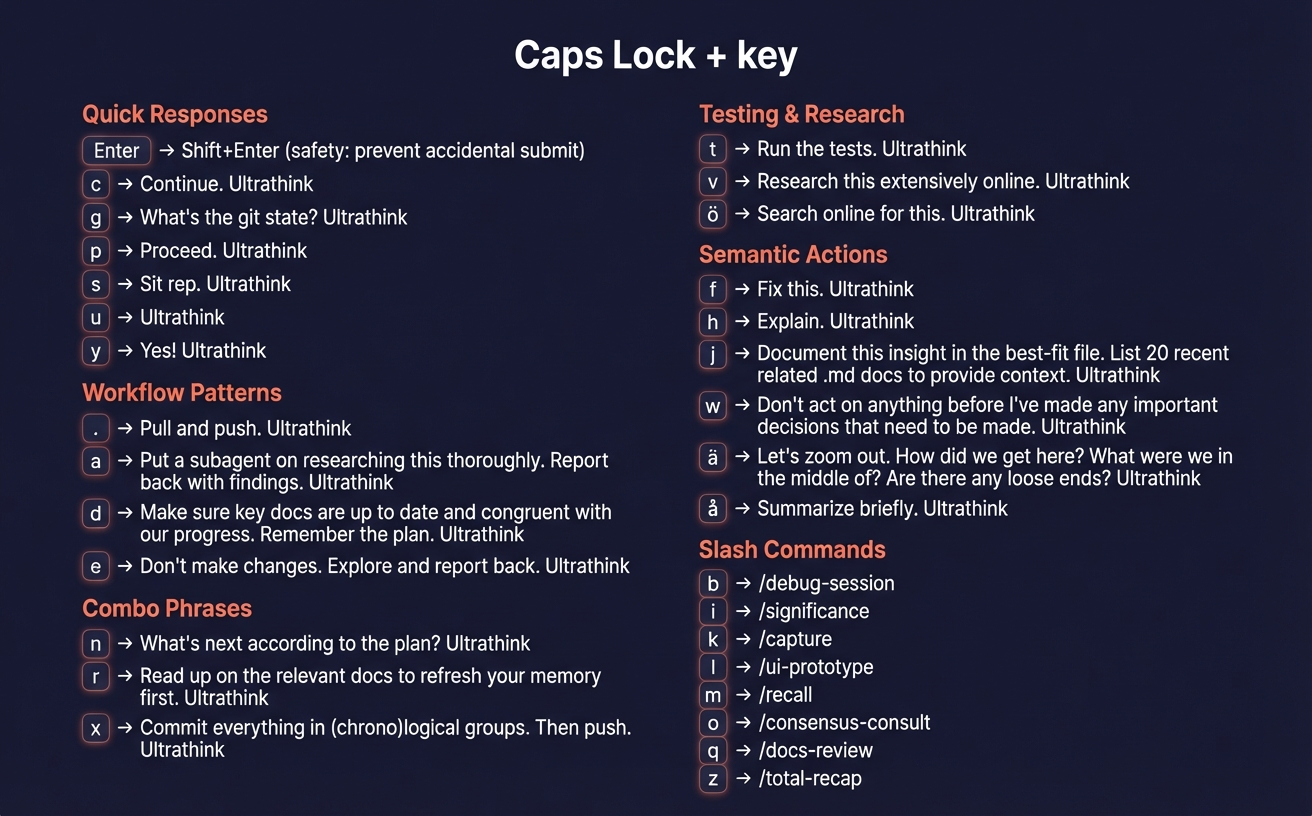
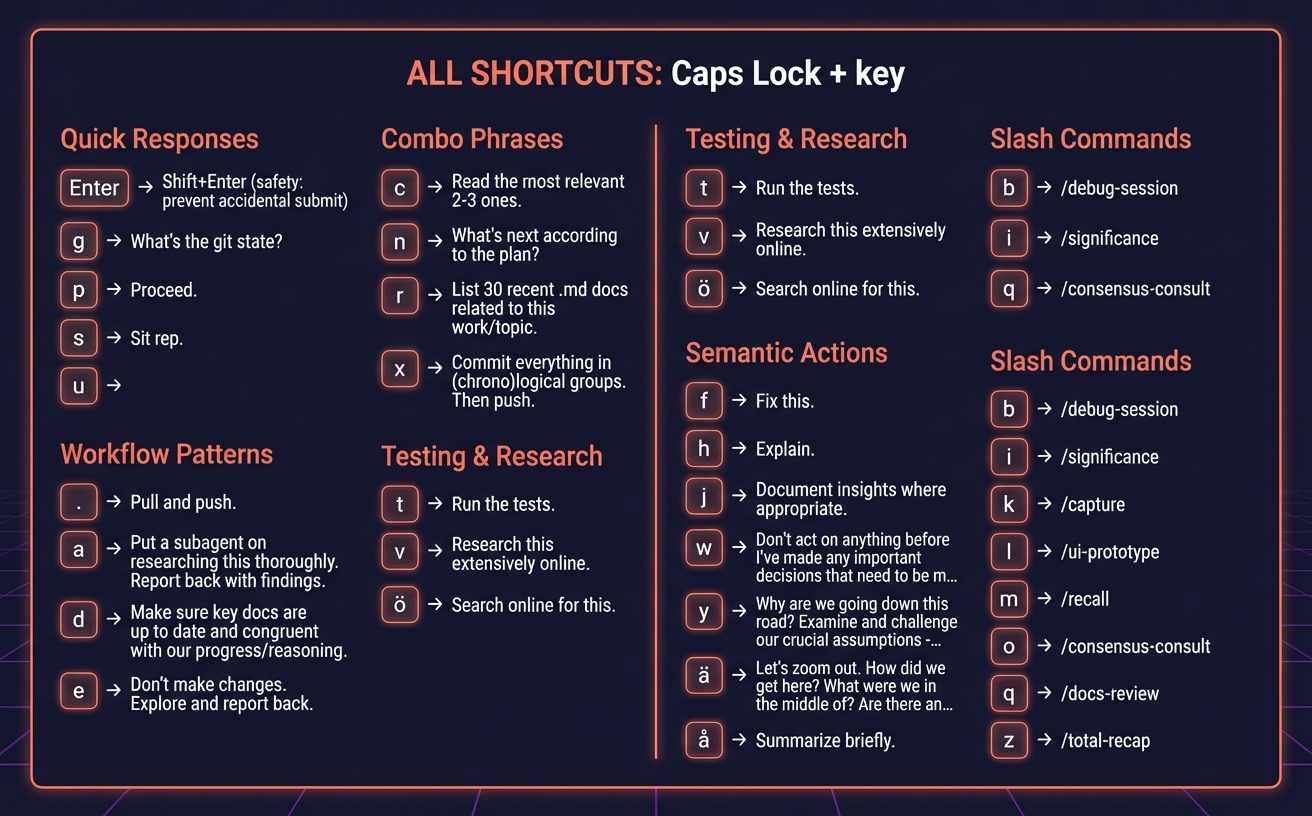
Refactor keyboard shortcuts for atomic composability
- r: List 30 recent .md docs (was: read up on docs)
- c: Read most relevant 2-3 docs (was: Continue)
- j: Document insights where appropriate (decoupled from enumerate)
- d: Update docs with progress/reasoning (improved wording)
- y: Challenge assumptions (new - deeper why prompt)

Cheatsheet improvements:
- Strip "Ultrathink" suffix from display (always present, user knows)
- Update tier assignments for changed shortcuts

Changed region(s): [[0.0, 0.0306, 1.0, 0.9804]]

diff --git a/scripts/generate_cheatsheet_ai.py b/scripts/generate_cheatsheet_ai.py
@@ -55,11 +55,11 @@ KEYBOARD_TIER_NAMES = {
 }
 
 TIER_ASSIGNMENTS = {
-    "u": 1, "c": 1, "y": 1, "p": 1, "s": 1, "g": 1,
+    "u": 1, "p": 1, "s": 1, "g": 1,
     "d": 2, "e": 2, "a": 2,
-    "x": 3, "r": 3, "n": 3,
+    "x": 3, "r": 3, "n": 3, "c": 3,  # c is now "Read relevant 2-3"
     "t": 4, "ö": 4,
-    "w": 5, "å": 5, "f": 5, "h": 5, "j": 5, "ä": 5,
+    "w": 5, "å": 5, "f": 5, "h": 5, "j": 5, "ä": 5, "y": 5,  # y is "Challenge assumptions"
     "m": 6, "k": 6, "i": 6, "b": 6, "l": 6, "o": 6, "q": 6,
     # New shortcuts
     ".": 2, "v": 4, "z": 6,
@@ -108,6 +108,8 @@ def extract_keyboard_shortcuts(config_path: Path) -> list[dict]:
             # Clean up shell escape sequences and surrounding quotes
             output_text = output_text.strip('"\'')
             output_text = output_text.replace("'\\''", "'").replace("\\'", "'").replace('\\"', '"').replace("\\\\", "\\")
+            # Strip "Ultrathink" suffix for cleaner display (user knows it's always there)
+            output_text = re.sub(r'\s*Ultrathink\s*$', '', output_text)
         else:
             output_text = name
 
@@ -194,6 +196,8 @@ def extract_xbox_mappings(config_path: Path) -> dict:
                 if text_match:
                     output = text_match.group(1).strip('"\'')
                     output = output.replace("'\\''", "'").replace("\\'", "'").replace('\\"', '"').replace("\\\\", "\\")
+                    # Strip "Ultrathink" suffix for cleaner display
+                    output = re.sub(r'\s*Ultrathink\s*$', '', output)
                     return output.strip()
                 return None
 
